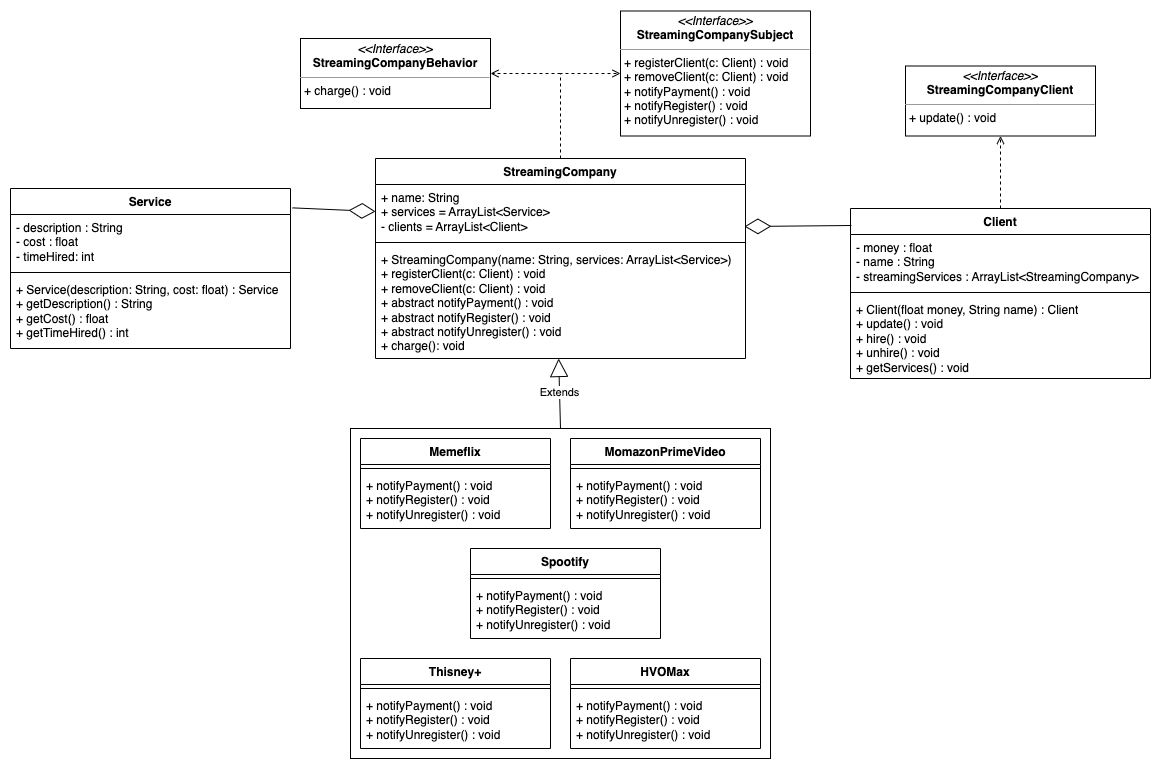
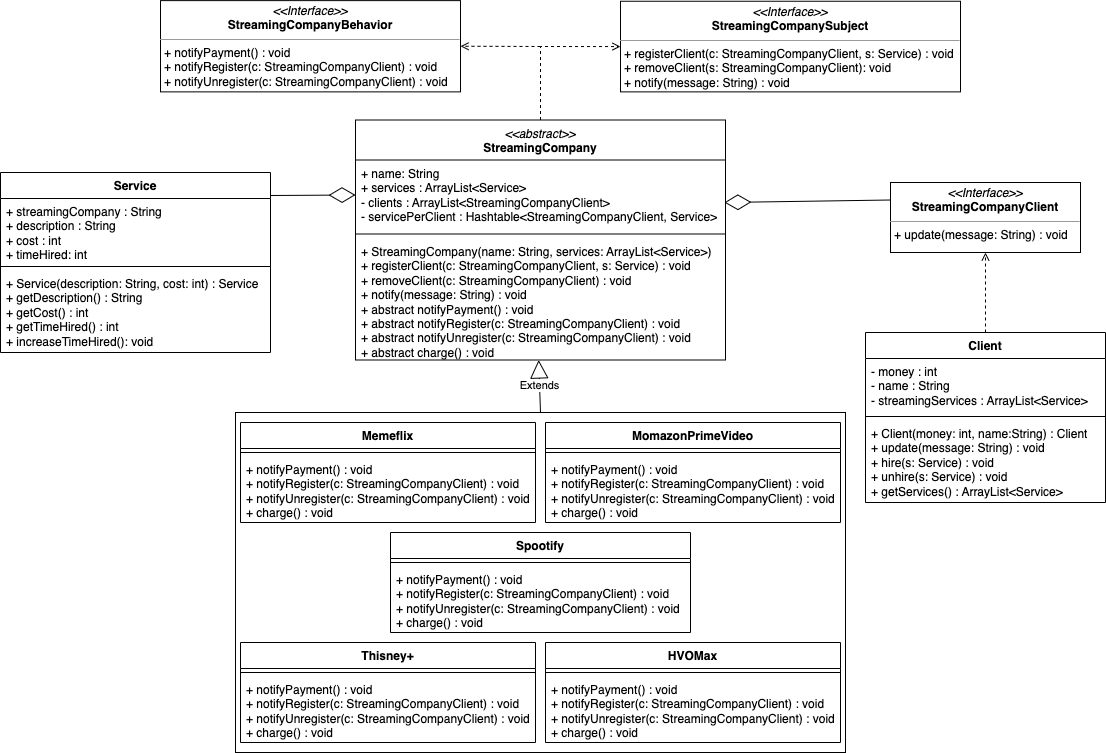
Completion of code, and added an updated UML diagram

diff --git a/src/StreamingCompany.java b/src/StreamingCompany.java
@@ -1,17 +1,21 @@
 import java.util.ArrayList;
+import java.util.Hashtable;
 
 /**
  * Clase pública StreamingCompany, define el comportamiento estándar 
  * de una compañía de streaming.
  */
-public abstract class StreamingCompany implements StreamingCompanyBehavior, StreamingCompanySubject {
+public abstract class StreamingCompany 
+    implements StreamingCompanyBehavior, StreamingCompanySubject {
     
     /** El nombre de la compañía de streaming. */
     String name;
     /** La lista de servicios de la compañía de streaming. */
     ArrayList<Service> services;
     /** La lista de clientes de la compañía de streaming. */
-    ArrayList<Client> clients;
+    ArrayList<StreamingCompanyClient> clients;
+    /** Los servicios que tiene contratado cada cliente. */
+    Hashtable<StreamingCompanyClient, Service> servicePerClient;
 
     /**
      * Constructor único de una compañía de streaming. Le asigna un nombre y 
@@ -22,15 +26,20 @@ public abstract class StreamingCompany implements StreamingCompanyBehavior, Stre
     public StreamingCompany(String name, ArrayList<Service> services) {
         this.name = name;
         this.services = services;
+        servicePerClient = new Hashtable<>();
     }
 
     /**
      * Registra un cliente a la compañía de streaming. Simplemente lo agrega 
-     * a la lista de clientes.
+     * a la lista de clientes, y después asocia al cliente con un servicio en 
+     * el diccionario de servicios por cliente.
      * @param c el cliente a registrar.
+     * @param s el servicio asociado al cliente.
      */
-    public void registerClient(Client c) {
-
+    @Override
+    public void registerClient(StreamingCompanyClient c, Service s) {
+        clients.add(c);
+        servicePerClient.put(c, s);
     }
 
     /**
@@ -38,27 +47,38 @@ public abstract class StreamingCompany implements StreamingCompanyBehavior, Stre
      * elimina de la lista de clientes.
      * @param c el cliente a eliminar.
      */
-    public void removeClient(Client c) {
+    @Override
+    public void removeClient(StreamingCompanyClient c) {
+        clients.remove(c);
+    }
 
+    @Override
+    public void notify(String message) {
+        if (clients.size() > 0) 
+            for (StreamingCompanyClient c : clients) 
+                c.update(message);
     }
 
     /**
      * Le notifica su pago mensual a todos los clientes (asumiendo que todos
      * contrataron el servicio al mismo tiempo).
      */
+    @Override
     public abstract void notifyPayment();
 
     /**
      * Le notifica de su registro a la compañía de streaming al cliente que se 
      * acaba de suscribir.
      */
-    public abstract void notifyRegister(Client c);
+    @Override
+    public abstract void notifyRegister(StreamingCompanyClient c);
 
     /**
      * Le notifica de su desuscripción a la compañía de streaming al cliente que se 
      * acaba de desuscribir.
      */
-    public abstract void notifyUnregister(Client c);
+    @Override
+    public abstract void notifyUnregister(StreamingCompanyClient c);
 
     /**
      * Le hace el cobro a todos los clientes de la compañía por sus servicios.

diff --git a/src/Client.java b/src/Client.java
@@ -4,13 +4,13 @@ import java.util.ArrayList;
  * Clase pública para representar a los clientes de las compañías 
  * de Streaming.
  */
-public class Client {
+public class Client implements StreamingCompanyClient{
     /** El nombre del cliente. */
     String name;
     /** La cantidad de dinero del cliente. */
     int money;
     /** La lista de servicios que tiene contratados el cliente. */
-    ArrayList<StreamingCompany> streamingServices;
+    ArrayList<Service> streamingServices;
 
     /**
      * Constructor único. Recibe el nombre y la cantidad de dinero deseada
@@ -24,38 +24,36 @@ public class Client {
     }
 
     /**
-     * Actualiza la información que tiene el cliente sobre sus servicios 
-     * de streaming.
+     * Actualiza la información que tiene el cliente sobre sus servicios de 
+     * streaming.
      */
-    public void update() {
-
+    public void update(String message) {
+        System.out.println("Dear " + name + ", " + message);
     }
 
     /**
-     * Simula la contratación de un servicio. Agrega el cliente a la lista 
-     * de observadores de la compañía de streaming <code>sc</code>, y agrega la 
-     * compañia de streaming a la lista propia de servicios de streaming.
+     * Simula la contratación de un servicio. Agrega el servicio contratado 
+     * a la lista propia de servicios de streaming.
      * @param sc la compañía de streaming que se desea contratar.
      */
-    public void hire(StreamingCompany sc) {
-
+    public void hire(Service s) {
+        streamingServices.add(s);
     }
 
     /**
-     * Simula la descontratación de un servicio. Elimina al cliente de la 
-     * lista observadores de la compañía de streaming <code>sc</code>, y elimina 
-     * a la misma compañía de la lista propia de servicios de streaming contratados.
+     * Simula la descontratación de un servicio. Elimina un servicio de la lista 
+     * propia de servicios de streaming contratados.
      * @param sc la compañía de streaming que se desea descontratar.
      */
-    public void unhire(StreamingCompany sc) {
-
+    public void unhire(Service s) {
+        streamingServices.remove(s);
     }
 
     /**
      * Permite obtener la lista de servicios que el cliente tiene contratados.
      * @return la lista de servicios de streaming.
      */
-    public void getServices() {
-
+    public ArrayList<Service> getServices() {
+        return streamingServices;
     }
 }

diff --git a/src/MomazonPrimeVideo.java b/src/MomazonPrimeVideo.java
@@ -20,23 +20,27 @@ public class MomazonPrimeVideo extends StreamingCompany {
      * contrataron el servicio al mismo tiempo).
      */
     public void notifyPayment() {
-
+        String payment = "you have to pay for your service with " + this.name + ".";
+        notify(payment);
     }
 
     /**
      * Le notifica de su registro a la compañía de streaming al cliente que se 
      * acaba de suscribir.
      */
-    public void notifyRegister(Client c) {
-
+    public void notifyRegister(StreamingCompanyClient c) {
+        String register = "welcome to " + this.name + 
+            ". We hope you have the best experience with us.";
+        notify(register);
     }
 
     /**
      * Le notifica de su desuscripción a la compañía de streaming al cliente que se 
      * acaba de desuscribir.
      */
-    public void notifyUnregister(Client c) {
-
+    public void notifyUnregister(StreamingCompanyClient c) {
+        String unregister = "we're sad you have to leave us :(.";
+        notify(unregister);
     }
 
     /**

diff --git a/src/Memeflix.java b/src/Memeflix.java
@@ -20,23 +20,27 @@ public class Memeflix extends StreamingCompany {
      * contrataron el servicio al mismo tiempo).
      */
     public void notifyPayment() {
-
+        String payment = "you have to pay for your service with " + this.name + ".";
+        notify(payment);
     }
 
     /**
      * Le notifica de su registro a la compañía de streaming al cliente que se 
      * acaba de suscribir.
      */
-    public void notifyRegister(Client c) {
-
+    public void notifyRegister(StreamingCompanyClient c) {
+        String register = "welcome to " + this.name + 
+            ". We hope you have the best experience with us.";
+        notify(register);
     }
 
     /**
      * Le notifica de su desuscripción a la compañía de streaming al cliente que se 
      * acaba de desuscribir.
      */
-    public void notifyUnregister(Client c) {
-
+    public void notifyUnregister(StreamingCompanyClient c) {
+        String unregister = "we're sad you have to leave us :(.";
+        notify(unregister);
     }
 
     /**

diff --git a/src/Spootify.java b/src/Spootify.java
@@ -20,23 +20,27 @@ public class Spootify extends StreamingCompany {
      * contrataron el servicio al mismo tiempo).
      */
     public void notifyPayment() {
-
+        String payment = "you have to pay for your service with " + this.name + ".";
+        notify(payment);
     }
 
     /**
      * Le notifica de su registro a la compañía de streaming al cliente que se 
      * acaba de suscribir.
      */
-    public void notifyRegister(Client c) {
-
+    public void notifyRegister(StreamingCompanyClient c) {
+        String register = "welcome to " + this.name + 
+            ". We hope you have the best experience with us.";
+        notify(register);
     }
 
     /**
      * Le notifica de su desuscripción a la compañía de streaming al cliente que se 
      * acaba de desuscribir.
      */
-    public void notifyUnregister(Client c) {
-
+    public void notifyUnregister(StreamingCompanyClient c) {
+        String unregister = "we're sad you have to leave us :(.";
+        notify(unregister);
     }
 
     /**

diff --git a/src/Thisney.java b/src/Thisney.java
@@ -20,23 +20,27 @@ public class Thisney extends StreamingCompany {
      * contrataron el servicio al mismo tiempo).
      */
     public void notifyPayment() {
-
+        String payment = "you have to pay for your service with " + this.name + ".";
+        notify(payment);
     }
 
     /**
      * Le notifica de su registro a la compañía de streaming al cliente que se 
      * acaba de suscribir.
      */
-    public void notifyRegister(Client c) {
-
+    public void notifyRegister(StreamingCompanyClient c) {
+        String register = "welcome to " + this.name + 
+            ". We hope you have the best experience with us.";
+        notify(register);
     }
 
     /**
      * Le notifica de su desuscripción a la compañía de streaming al cliente que se 
      * acaba de desuscribir.
      */
-    public void notifyUnregister(Client c) {
-
+    public void notifyUnregister(StreamingCompanyClient c) {
+        String unregister = "we're sad you have to leave us :(.";
+        notify(unregister);
     }
 
     /**

diff --git a/src/HVOMax.java b/src/HVOMax.java
@@ -20,23 +20,27 @@ public class HVOMax extends StreamingCompany {
      * contrataron el servicio al mismo tiempo).
      */
     public void notifyPayment() {
-
+        String payment = "you have to pay for your service with " + this.name + ".";
+        notify(payment);
     }
 
     /**
      * Le notifica de su registro a la compañía de streaming al cliente que se 
      * acaba de suscribir.
      */
-    public void notifyRegister(Client c) {
-
+    public void notifyRegister(StreamingCompanyClient c) {
+        String register = "welcome to " + this.name + 
+            ". We hope you have the best experience with us.";
+        notify(register);
     }
 
     /**
      * Le notifica de su desuscripción a la compañía de streaming al cliente que se 
      * acaba de desuscribir.
      */
-    public void notifyUnregister(Client c) {
-
+    public void notifyUnregister(StreamingCompanyClient c) {
+        String unregister = "we're sad you have to leave us :(.";
+        notify(unregister);
     }
 
     /**

diff --git a/src/StreamingCompanySubject.java b/src/StreamingCompanySubject.java
@@ -7,12 +7,19 @@ public interface StreamingCompanySubject {
     /**
      * Registra al cliente a un servicio de streaming.
      * @param c el cliente a registrar.
+     * @param s el servicio asociado al cliente
      */
-    public void registerClient(Client c);
+    public void registerClient(StreamingCompanyClient c, Service s);
 
     /**
      * Desuscribe al cliente de un servicio de streaming.
      * @param c el cliente a desuscribir.
      */
-    public void removeClient(Client c);
+    public void removeClient(StreamingCompanyClient c);
+
+    /**
+     * Le notifica a los clientes sobre un mensaje en específico.
+     * @param message el mensaje a notificar.
+     */
+    public void notify(String message);
 }

diff --git a/src/Service.java b/src/Service.java
@@ -3,6 +3,8 @@
  */
 public class Service {
     
+    /** La compañía que posee el servicio. */
+    String streamingCompany;
     /** La descripción del producto. */
     String description;
     /** El costo del produto. */
@@ -16,7 +18,8 @@ public class Service {
      * @param description la descripción del servicio.
      * @param cost el costo del servicio.
      */
-    public Service(String description, int cost) {
+    public Service(String streamingCompany, String description, int cost) {
+        this.streamingCompany = streamingCompany;
         this.description = description;
         this.cost = cost;
     }

diff --git a/src/StreamingCompanyBehavior.java b/src/StreamingCompanyBehavior.java
@@ -14,12 +14,12 @@ public interface StreamingCompanyBehavior {
      * Le notifica a un cliente de su registro a una compañía de streaming.
      * @param c el cliente a notificar.
      */
-    public void notifyRegister(Client c);
+    public void notifyRegister(StreamingCompanyClient c);
 
     /**
      * Le notifica a un cliente de su desuscripción a una compañía de 
      * streaming.
      * @param c el cliente a notificar.
      */
-    public void notifyUnregister(Client c);    
+    public void notifyUnregister(StreamingCompanyClient c);    
 }

diff --git a/src/StreamingCompanyClient.java b/src/StreamingCompanyClient.java
@@ -6,9 +6,9 @@
 public interface StreamingCompanyClient {
 
     /**
-     * Actualiza la información que tiene el cliente sobre sus servicios 
-     * de streaming.
+     * Actualiza la información que tiene el cliente sobre sus servicios de 
+     * streaming.
      */
-    public void update();
+    public void update(String message);
     
 }
